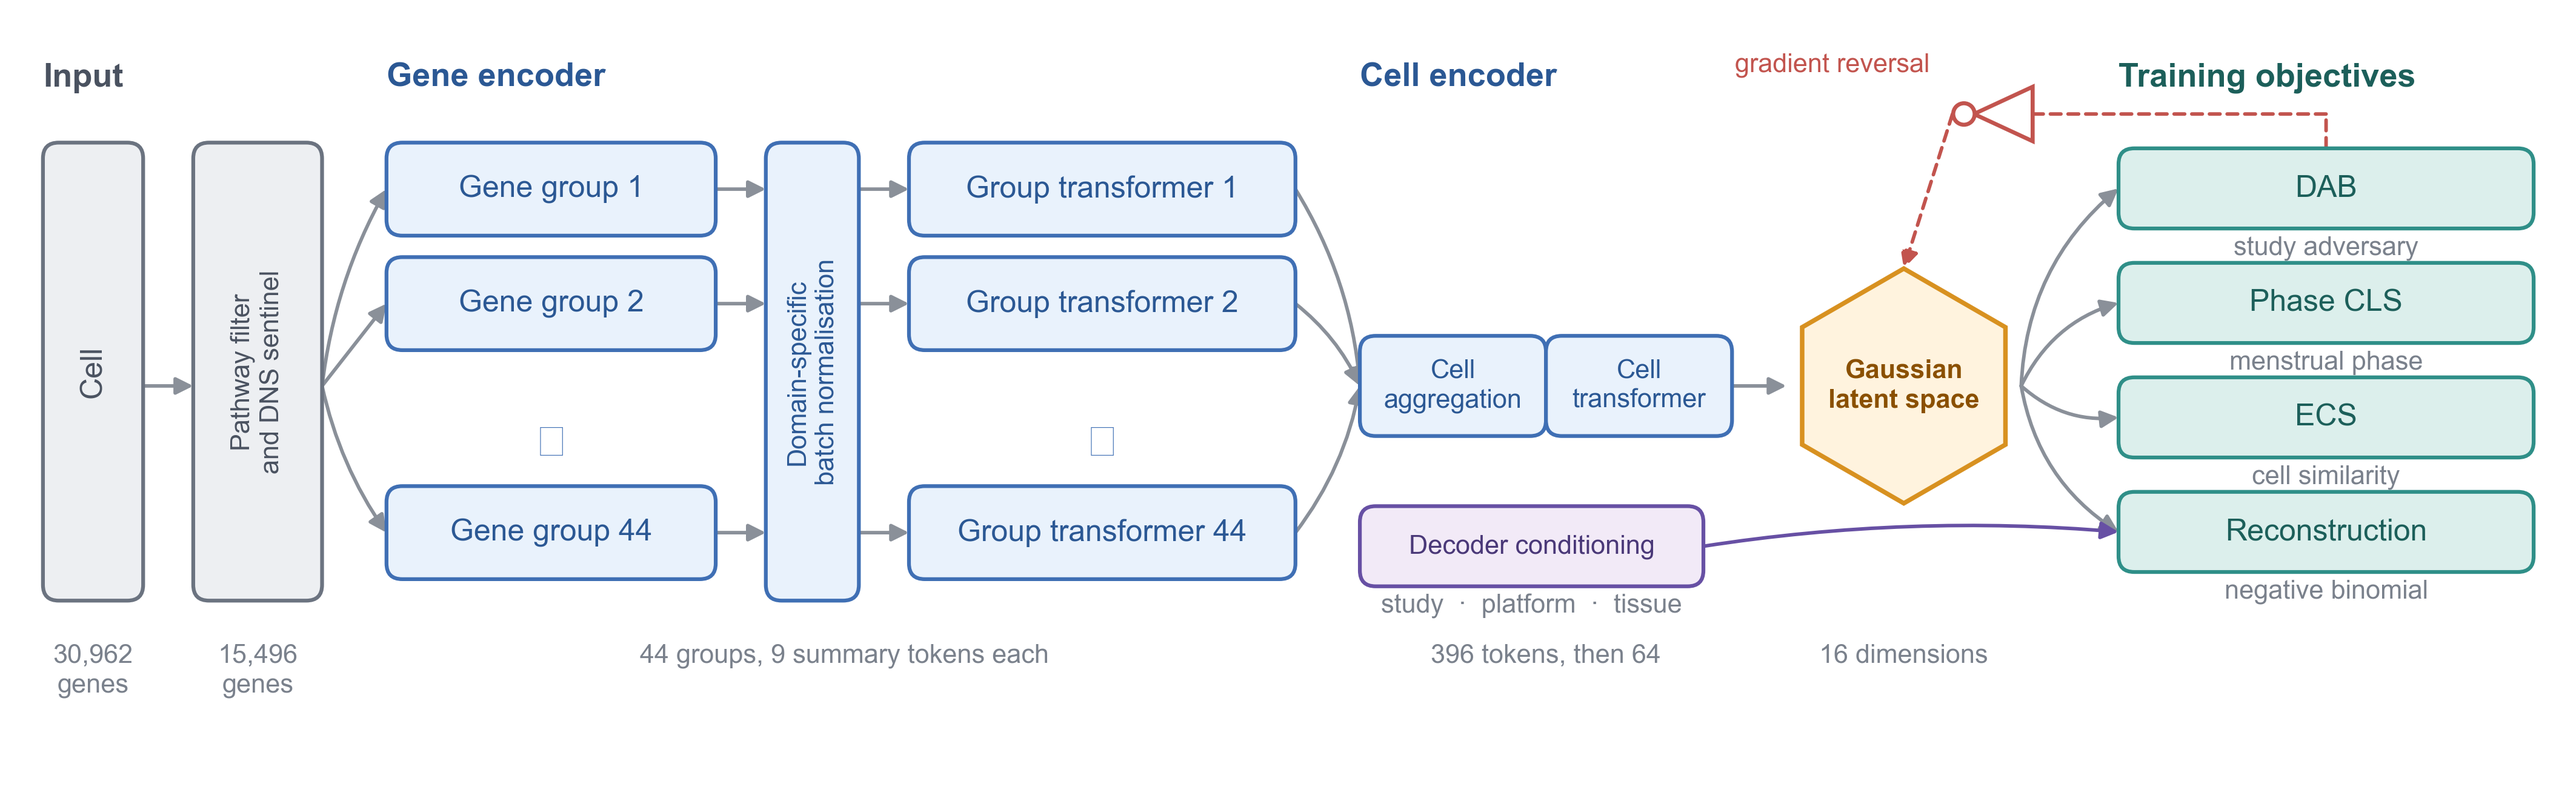
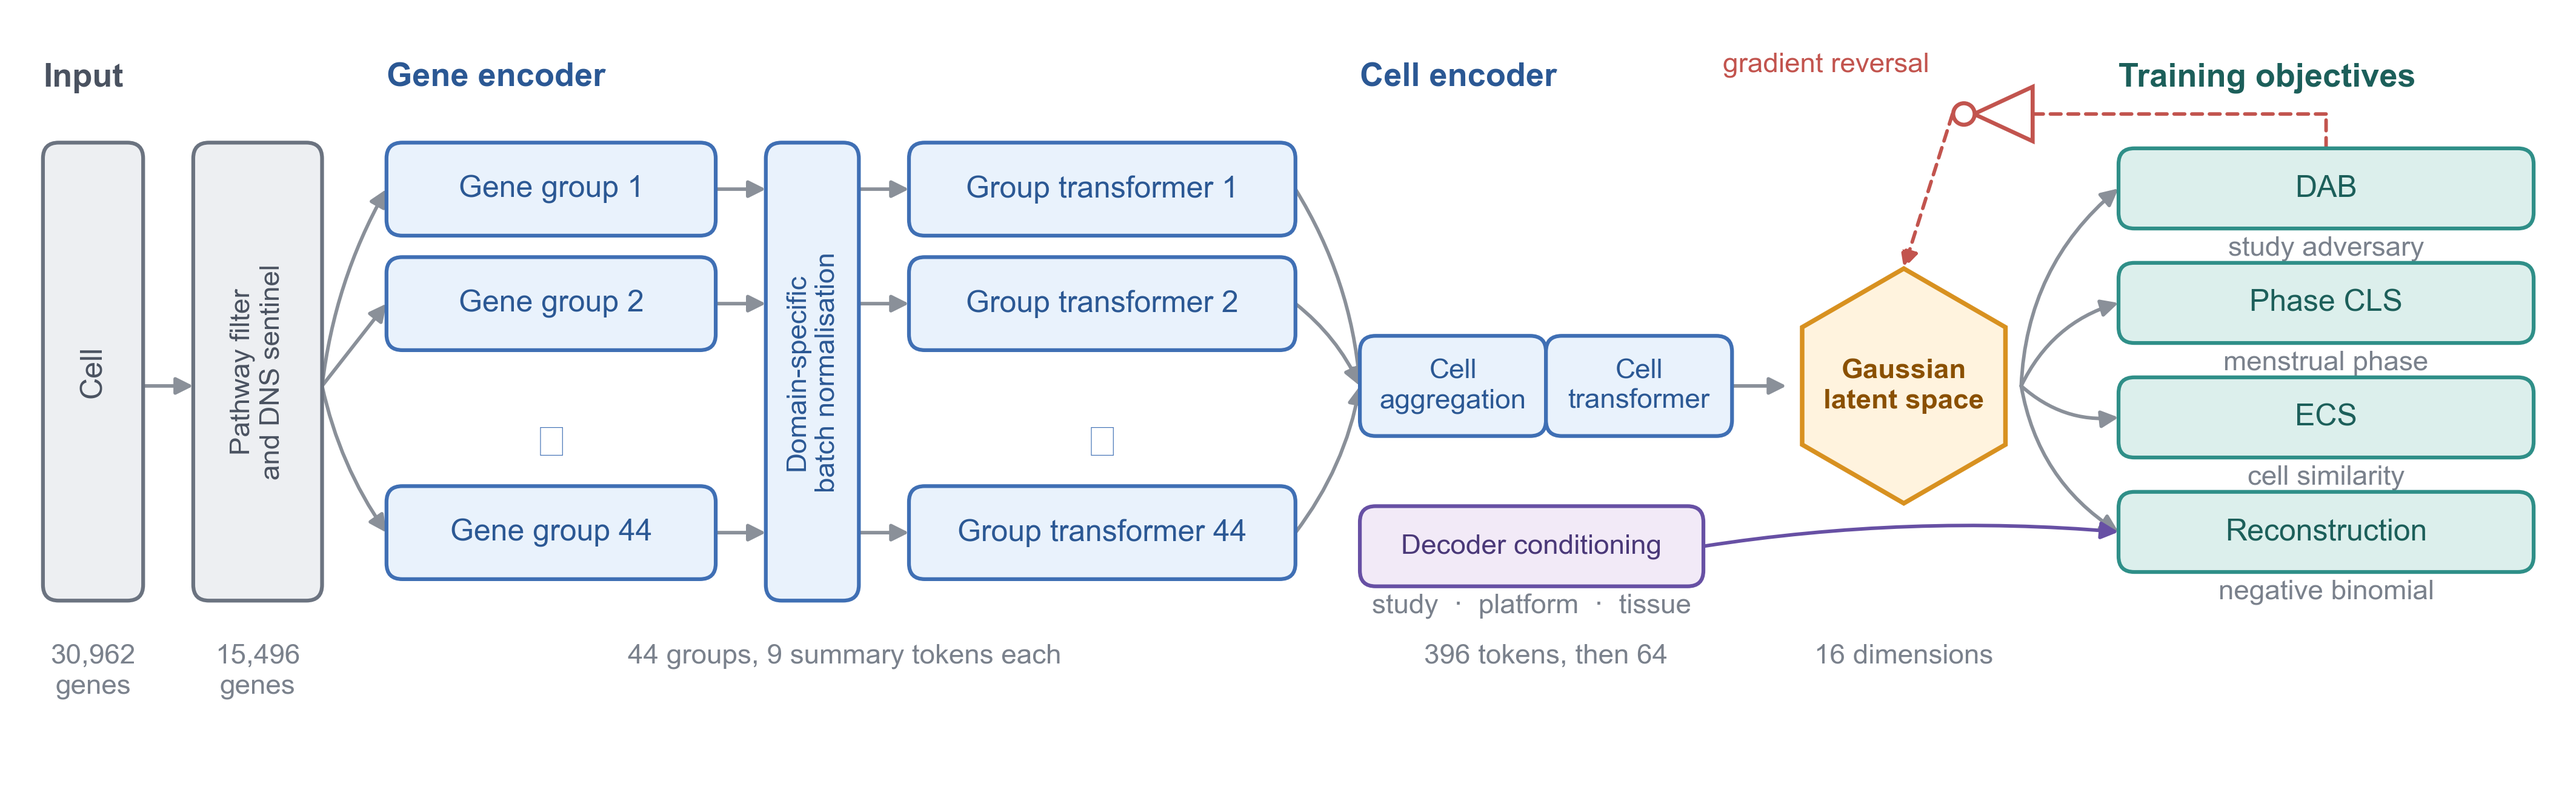
Annotations to 5.5 pt, matching the rest of the figure

diff --git a/figures/scripts/panel_a_mockup.py b/figures/scripts/panel_a_mockup.py
@@ -49,7 +49,7 @@ PURP_F, PURP_E, PURP_T = "#F2EAF7", "#6750A4", "#4A3878"
 ROSE = "#C2544E"
 NOTE = "#7A818C"
 
-FS_HEAD, FS_BOX, FS_NOTE = 6.5, 6.0, 5.2
+FS_HEAD, FS_BOX, FS_NOTE = 6.5, 6.0, 5.5   # headings / box labels / annotations
 plt.rcParams.update({"font.family": "Arial", "text.color": "#2B3038"})
 
 
